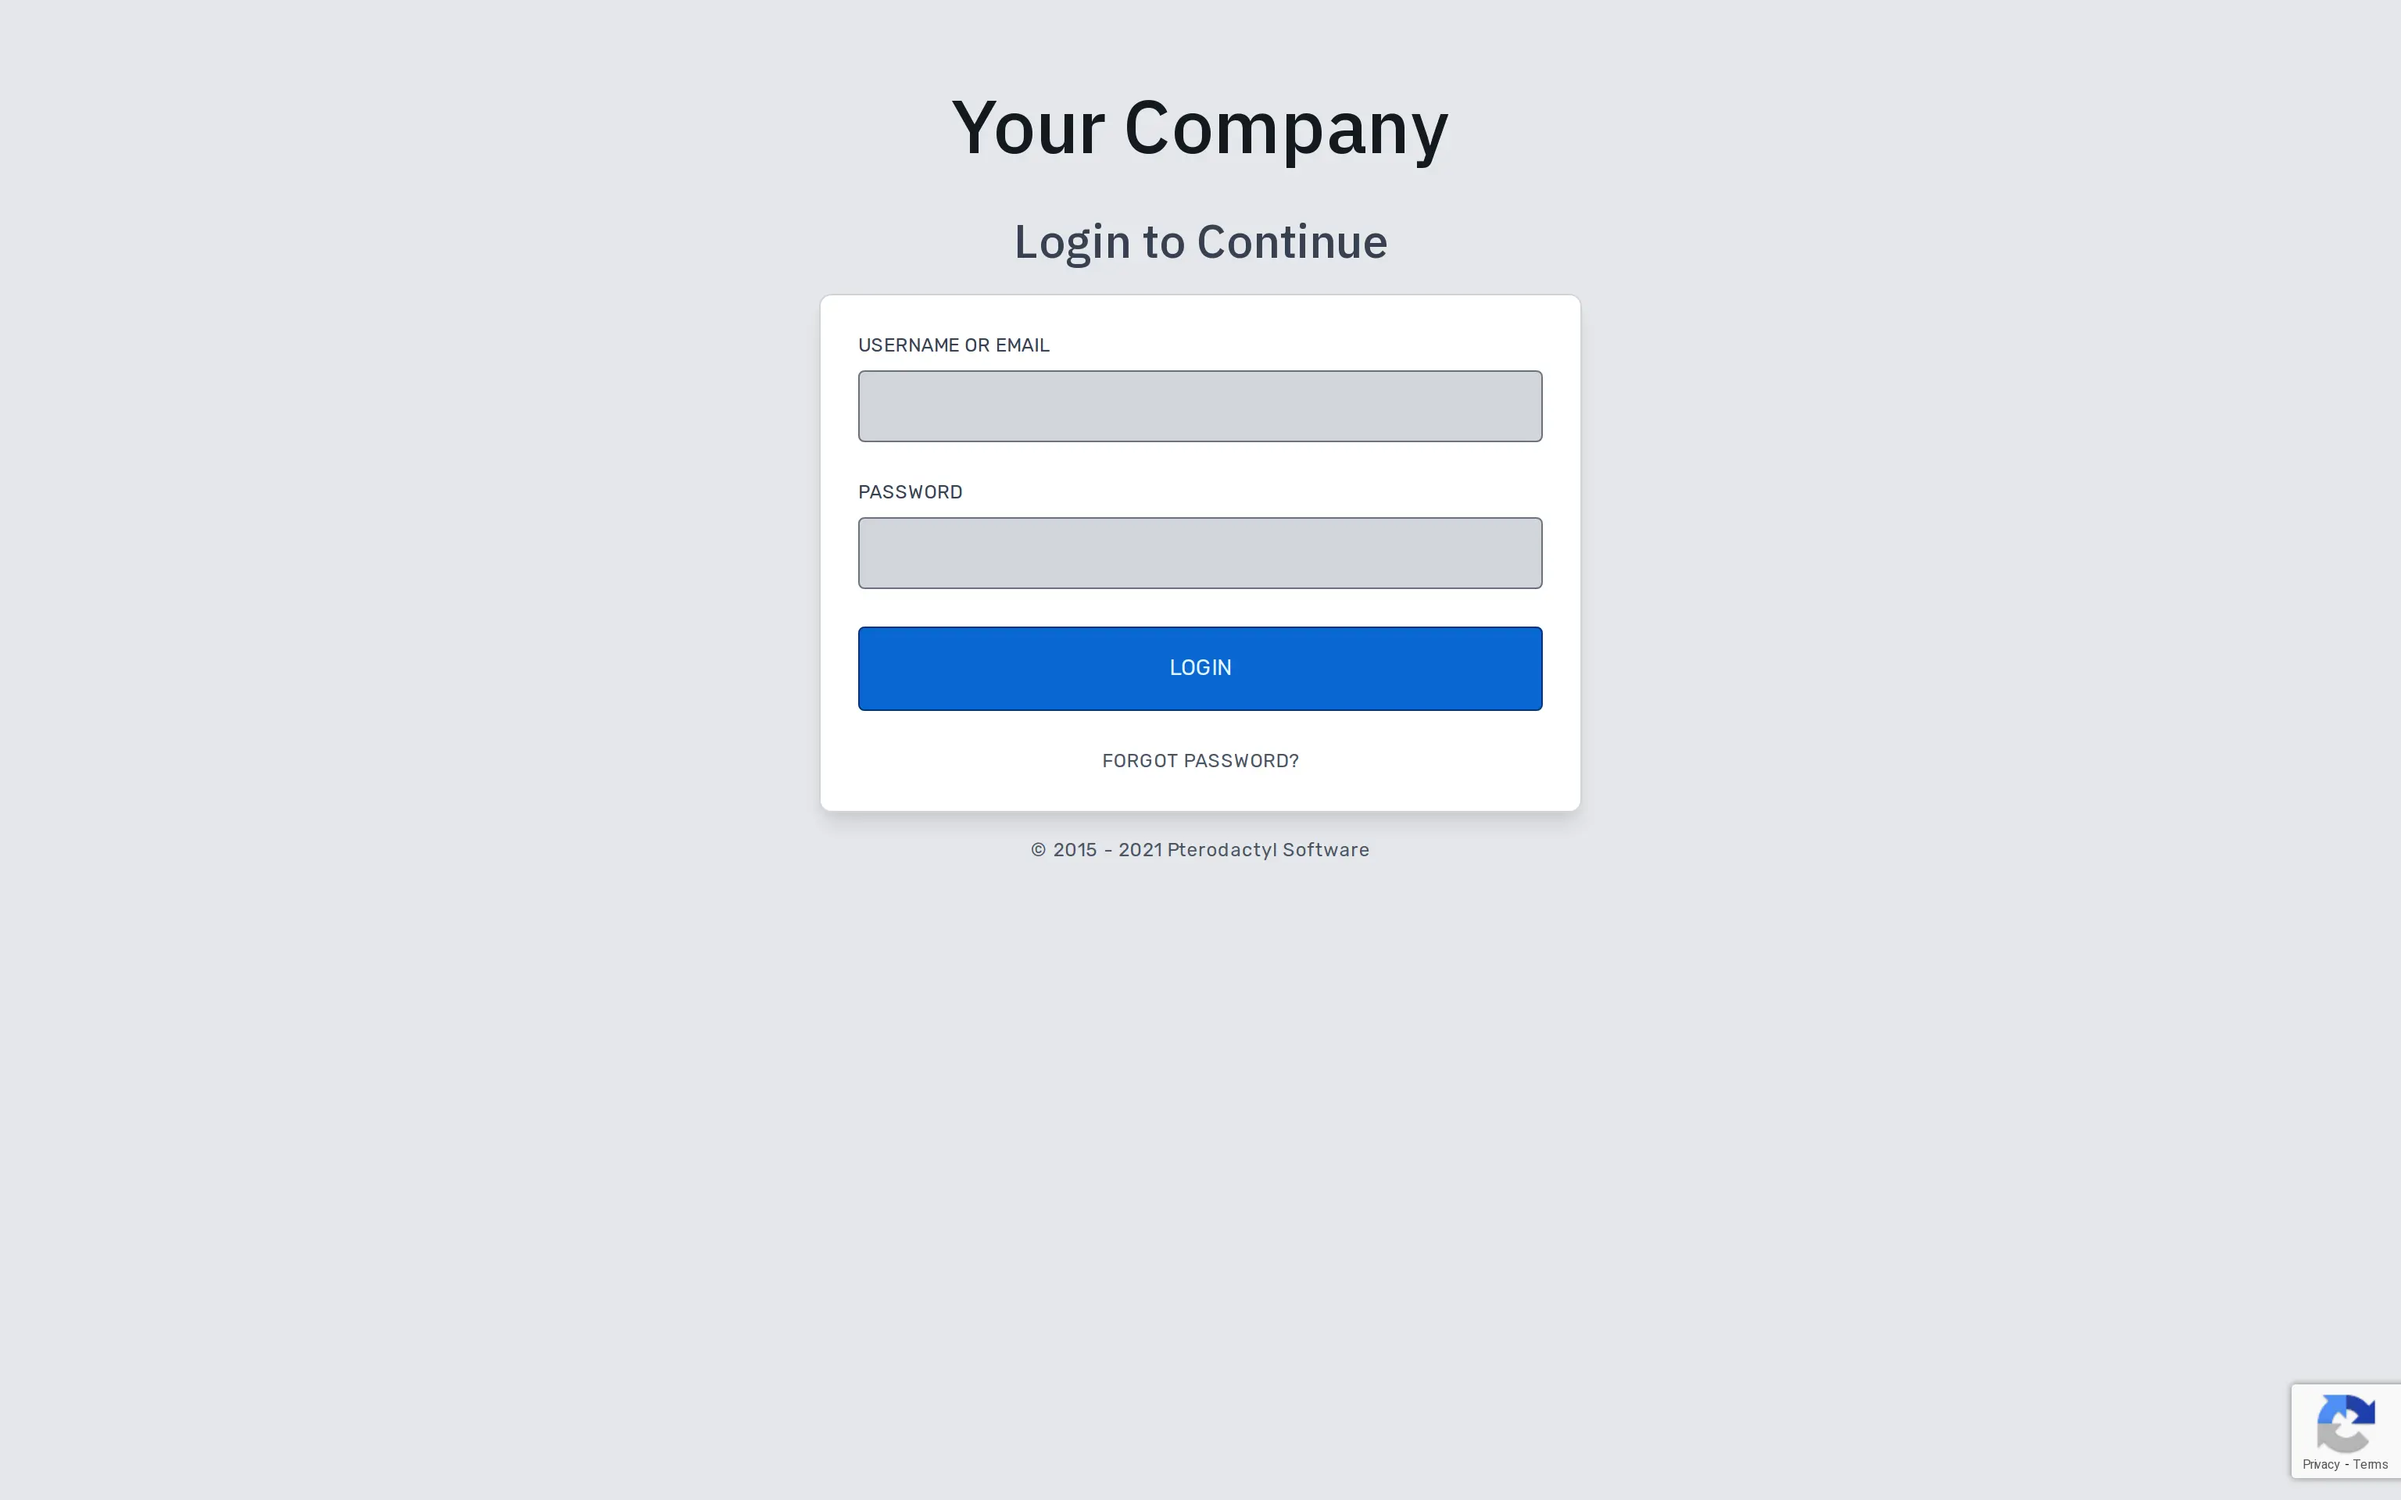
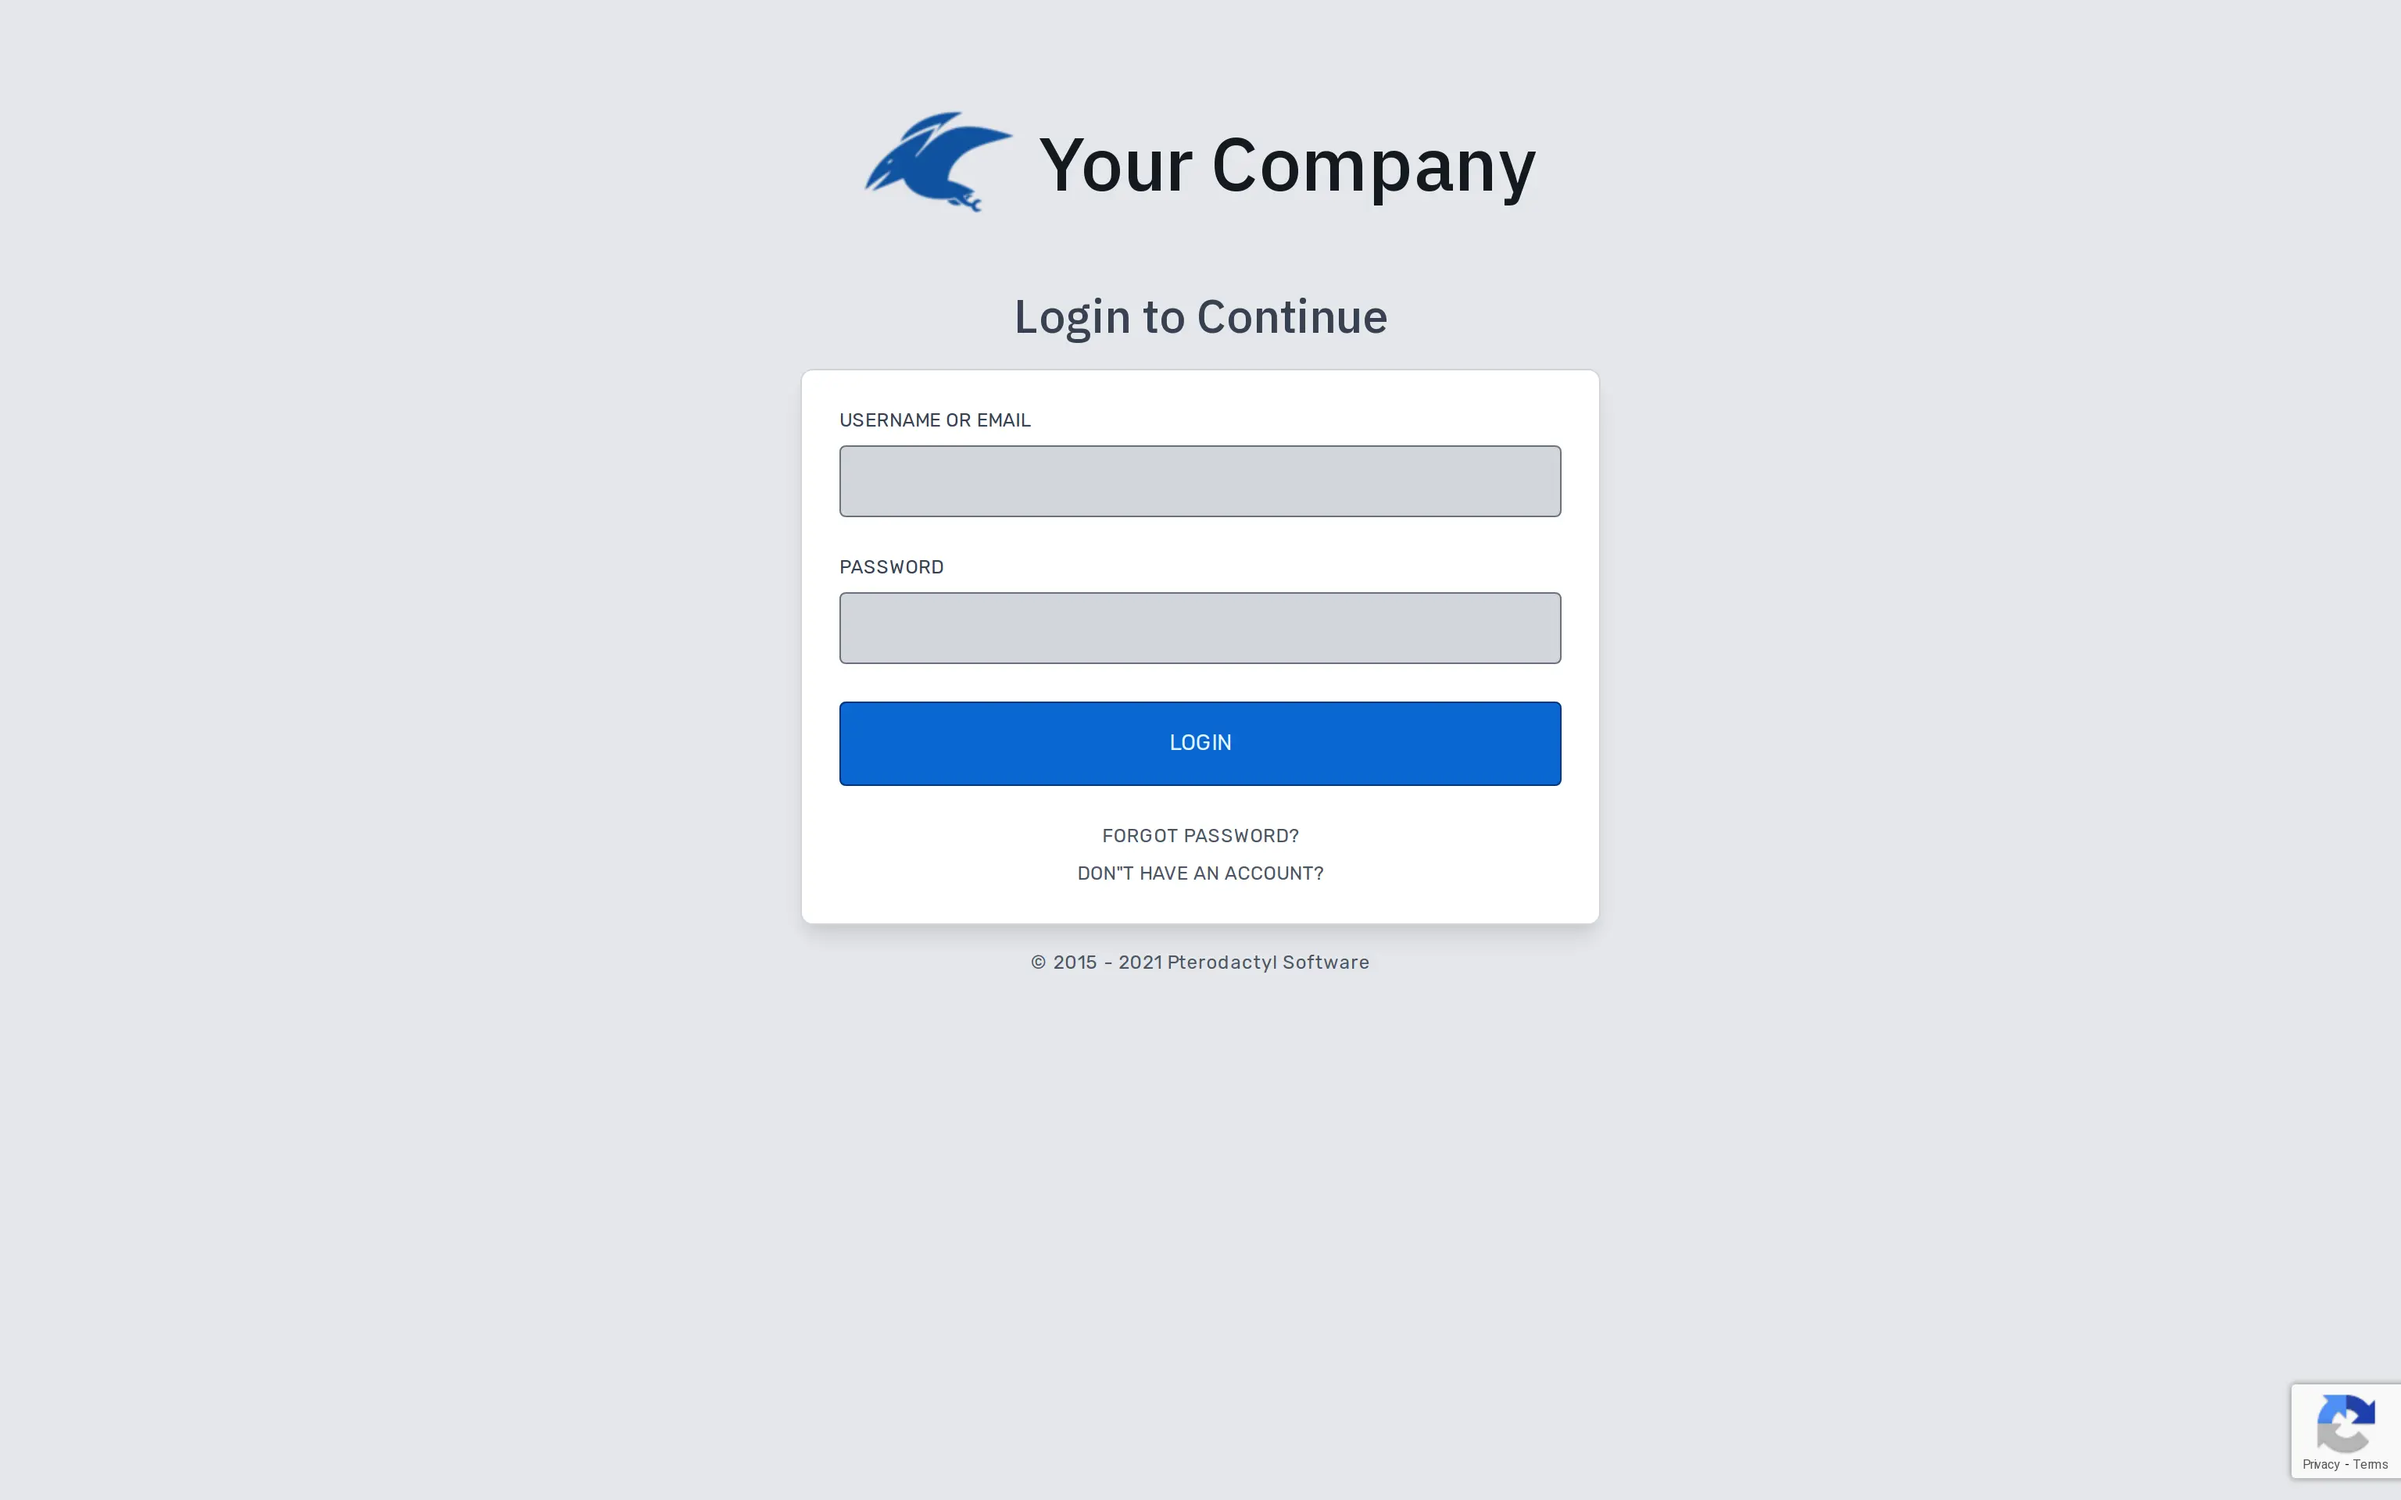
[Projects/Professional] Update preview for Professional v1.1

Changed region(s): [[0.3125, 0.1562, 0.6875, 0.6562], [0.3438, 0.0625, 0.6562, 0.1562]]

diff --git a/src/components/pages/projects/Professional.tsx b/src/components/pages/projects/Professional.tsx
@@ -29,6 +29,7 @@ import DesktopLightFiles from '@/assets/themes/professional/desktop/light/files.
 import DesktopLightLogin from '@/assets/themes/professional/desktop/light/login.webp'
 import DesktopLightNetwork from '@/assets/themes/professional/desktop/light/network.webp'
 import DesktopLightPassword from '@/assets/themes/professional/desktop/light/password.webp'
+import DesktopLightRegister from '@/assets/themes/professional/desktop/light/register.webp'
 import DesktopLightSchedules from '@/assets/themes/professional/desktop/light/schedules.webp'
 import DesktopLightSettings from '@/assets/themes/professional/desktop/light/settings.webp'
 import DesktopLightStartup from '@/assets/themes/professional/desktop/light/startup.webp'
@@ -43,6 +44,7 @@ import DesktopDarkFiles from '@/assets/themes/professional/desktop/dark/files.we
 import DesktopDarkLogin from '@/assets/themes/professional/desktop/dark/login.webp'
 import DesktopDarkNetwork from '@/assets/themes/professional/desktop/dark/network.webp'
 import DesktopDarkPassword from '@/assets/themes/professional/desktop/dark/password.webp'
+import DesktopDarkRegister from '@/assets/themes/professional/desktop/dark/register.webp'
 import DesktopDarkSchedules from '@/assets/themes/professional/desktop/dark/schedules.webp'
 import DesktopDarkSettings from '@/assets/themes/professional/desktop/dark/settings.webp'
 import DesktopDarkStartup from '@/assets/themes/professional/desktop/dark/startup.webp'
@@ -54,6 +56,7 @@ import PteroMarketButton from '@/components/PteroMarketButton'
 const getImagesAndLabels = (darkMode: boolean): { [label: string]: string } => ({
 	'Login': darkMode ? DesktopDarkLogin : DesktopLightLogin,
 	'Forgot Password': darkMode ? DesktopDarkPassword : DesktopLightPassword,
+	'Register': darkMode ? DesktopDarkRegister : DesktopLightRegister,
 	'Dashboard': darkMode ? DesktopDarkDashboard : DesktopLightDashboard,
 	'Account Settings': darkMode ? DesktopDarkAccount : DesktopLightAccount,
 	'Server Console': darkMode ? DesktopDarkConsole : DesktopLightConsole,

diff --git a/src/components/pages/Projects.tsx b/src/components/pages/Projects.tsx
@@ -28,10 +28,10 @@ const ProjectsIndex = (): JSX.Element => (
 	<PageWrapper title="projects" styleChildren={false}>
 		<div css={tw`flex flex-wrap gap-4 justify-center`}>
 			<Link to="professional">
-				<div css={tw`flex flex-col gap-2 justify-center items-center text-gray-300 bg-gray-700 border border-gray-500
-				hover:(text-gray-100 bg-gray-600 border-gray-400 shadow-xl) shadow-md w-72 h-32 rounded-xl transition-colors duration-200 ease-in-out`}>
+				<div css={tw`flex flex-col justify-center items-center text-gray-600 bg-gray-200 border border-white
+				hover:(text-gray-800 bg-gray-100 shadow-xl) shadow-md w-72 h-32 rounded-xl transition-colors duration-200 ease-in-out`}>
+					<p>omame&apos;s</p>
 					<p css={tw`text-3xl font-medium`}>Professional</p>
-					<p>a Pterodactyl theme</p>
 				</div>
 			</Link>
 		</div>
